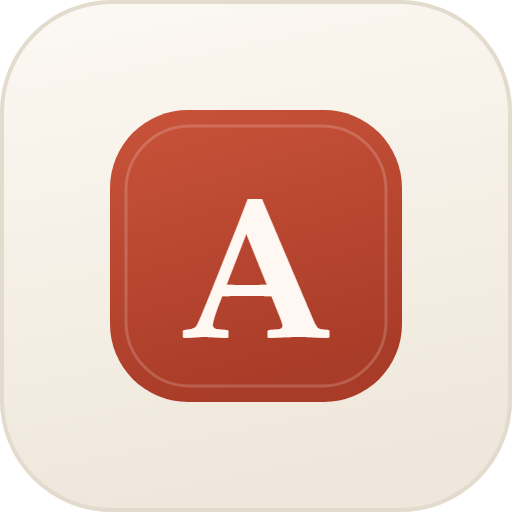
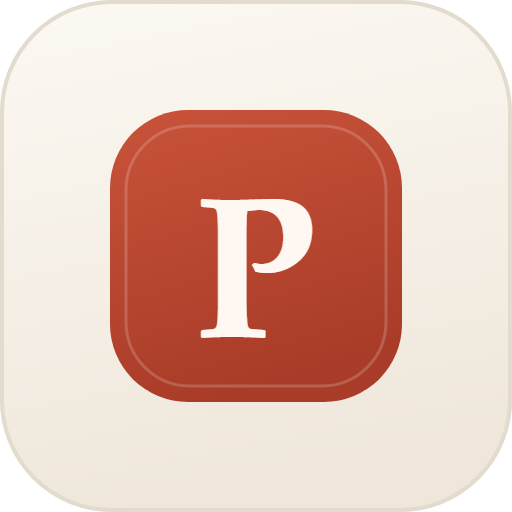
chore: 应用更名为拾词（Pickword）

Changed region(s): [[0.3438, 0.375, 0.6562, 0.6875]]

diff --git a/index.html b/index.html
@@ -6,11 +6,11 @@
 <meta name="theme-color" content="#f6f2ea">
 <meta name="apple-mobile-web-app-capable" content="yes">
 <meta name="apple-mobile-web-app-status-bar-style" content="default">
-<meta name="apple-mobile-web-app-title" content="词汇">
+<meta name="apple-mobile-web-app-title" content="拾词">
 <meta name="description" content="电子英语单词本：多词本、权重统计、词云关系图、三端同步。纯前端 PWA，零依赖、离线可用。">
-<title>词汇 · 电子英语单词本</title>
+<title>拾词 · 电子英语单词本</title>
 <meta property="og:type" content="website">
-<meta property="og:title" content="词汇 · 电子英语单词本">
+<meta property="og:title" content="拾词 · 电子英语单词本">
 <meta property="og:description" content="多词本、权重统计、词云关系图、AI 分类与三端同步的电子单词本；纯前端 PWA，零依赖、离线可用。">
 <meta property="og:image" content="docs/words.png">
 <meta name="twitter:card" content="summary_large_image">
@@ -25,10 +25,10 @@
 <div class="app">
   <aside class="sidebar" id="sidebar">
     <div class="brand">
-      <div class="brand-mark">A</div>
+      <div class="brand-mark">P</div>
       <div class="brand-text">
-        <div class="brand-title">词汇</div>
-        <div class="brand-sub">Vocabulary</div>
+        <div class="brand-title">拾词</div>
+        <div class="brand-sub">Pickword</div>
       </div>
     </div>
     <div class="sidebar-scroll">

diff --git a/js/views.js b/js/views.js
@@ -1203,7 +1203,7 @@ export function openSettingsDialog() {
     const blob = new Blob([exportJSON()], { type: 'application/json' });
     const a = document.createElement('a');
     a.href = URL.createObjectURL(blob);
-    a.download = `词汇备份_${new Date().toISOString().slice(0, 10)}.json`;
+    a.download = `拾词备份_${new Date().toISOString().slice(0, 10)}.json`;
     a.click();
     setTimeout(() => URL.revokeObjectURL(a.href), 2000);
     toast('已导出', 'success');
@@ -1537,7 +1537,7 @@ export function openAboutDialog() {
   const ok = el('button', { class: 'btn btn-primary', text: '知道了' });
   foot.appendChild(ok);
 
-  const modal = openModal({ title: '关于「词汇」', body, footer: foot });
+  const modal = openModal({ title: '关于「拾词」', body, footer: foot });
   ok.addEventListener('click', () => modal.close());
   const close = () => modal.close();
 }

diff --git a/sw.js b/sw.js
@@ -1,6 +1,6 @@
 /* 离线缓存：应用外壳缓存优先，导航请求走网络优先 + 离线兜底 */
 
-const VERSION = 'vn-v3';
+const VERSION = 'vn-v4';
 const CORE = [
   './',
   './index.html',

diff --git a/serve.py b/serve.py
@@ -89,7 +89,7 @@ def main():
     ips = lan_ips()
 
     print("=" * 62, flush=True)
-    print("  词汇 · 电子英语单词本", flush=True)
+    print("  拾词 · 电子英语单词本", flush=True)
     print("=" * 62, flush=True)
     print("")
     print(f"  本机访问（这台电脑）：{local}", flush=True)

diff --git a/README.md b/README.md
@@ -1,6 +1,8 @@
-# 词汇 · 电子英语单词本
+# 拾词 · 电子英语单词本
 
-**一个可以在 Windows 电脑 / iPad / 鸿蒙手机上使用的电子英语单词本。**
+**拾词（Pickword）—— 一个可以在 Windows 电脑 / iPad / 鸿蒙手机上使用的电子英语单词本。**
+
+> 名字的来历：遇见一个词，**拾**起来放进本子；再遇见一次，它在那个本子里的权重就 +1。
 纯前端 PWA，零依赖、零构建：双击就能跑，也可以放到任意静态网站空间，用浏览器「添加到主屏幕」后像 App 一样使用。
 
 录入单词会自动补上音标、发音、词性和中文释义；每个单词带一个看得见的**权重**；
@@ -29,7 +31,7 @@
 | 三端 | 同一个网页适配桌面 / 平板 / 手机，可「添加到主屏幕」离线使用 |
 | 同步 | 可选 Supabase：邮箱登录，三端共享同一份数据 |
 
-> **在线试用**：部署到 GitHub Pages 后访问 `https://YiYicc008.github.io/vocabulary/index.html?demo`（带 `?demo` 会载入示例数据）。
+> **在线试用**：部署到 GitHub Pages 后访问 `https://YiYicc008.github.io/pickword/index.html?demo`（带 `?demo` 会载入示例数据）。
 > 没部署也能用：见下面「五分钟上手」。
 
 界面语言：简体中文　｜　代码：原生 JavaScript（ES Modules），零依赖、无构建步骤
@@ -50,7 +52,7 @@
 
 ```
 ==============================================================
-  词汇 · 电子英语单词本
+  拾词 · 电子英语单词本
 ==============================================================
 
   本机访问（这台电脑）：http://127.0.0.1:8080/index.html
@@ -219,7 +221,7 @@
 ### 1. 建一个 Supabase 项目（约 3 分钟）
 
 1. 打开 <https://supabase.com> → `Start your project`，用 GitHub 或邮箱注册（免费计划足够）；
-2. `New project`：填项目名（例如 `vocabulary`）、设置**数据库密码**（自己记好，一般用不到）、
+2. `New project`：填项目名（例如 `pickword`）、设置**数据库密码**（自己记好，一般用不到）、
    区域选离你近的（如 `Singapore` / `Tokyo`）→ `Create new project`，等 1–2 分钟初始化完成。
 
 ### 2. 拿到两个值
@@ -385,15 +387,15 @@ git revert <commit>        # 撤销某次提交
    ```bash
    git init
    git add .
-   git commit -m "init: 词汇 · 电子英语单词本"
+   git commit -m "init: 拾词 · 电子英语单词本"
    git branch -M main
-   git remote add origin https://github.com/YiYicc008/vocabulary.git
+   git remote add origin https://github.com/YiYicc008/pickword.git
    git push -u origin main
    ```
 
 2. 仓库 **Settings → Pages**：Source 选 `Deploy from a branch`，Branch 选 `main`、目录 `/(root)`，Save。
 
-3. 等一两分钟，访问 `https://YiYicc008.github.io/vocabulary/`。
+3. 等一两分钟，访问 `https://YiYicc008.github.io/pickword/`。
    想直接看示例数据就加 `?demo`：`…/index.html?demo`。
 
 4. iPad / 手机打开同一个地址 → 分享 → **添加到主屏幕**；Windows 上 Chrome / Edge 地址栏右侧的安装图标也能装。
@@ -408,7 +410,7 @@ git revert <commit>        # 撤销某次提交
 
 几点说明：
 
-- 所有资源都用相对路径，放在子目录（`https://…/vocabulary/`）也能正常工作；
+- 所有资源都用相对路径，放在子目录（`https://…/pickword/`）也能正常工作；
 - 根目录的 `.nojekyll` 用来跳过 Jekyll 处理，避免带下划线/特殊名字的文件被忽略；
 - 换成 Netlify / Vercel / Cloudflare Pages 也一样，都是纯静态托管，直接把文件夹拖进去即可；
 - 只想局域网用，就不必部署，双击 `start.bat` 后按窗口里打印的地址访问。
